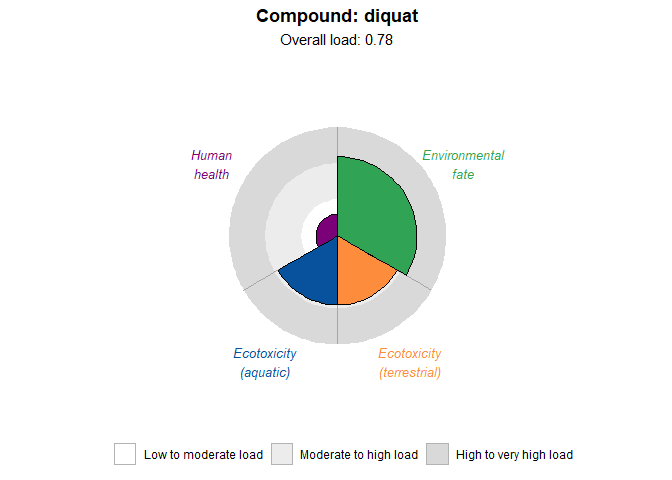
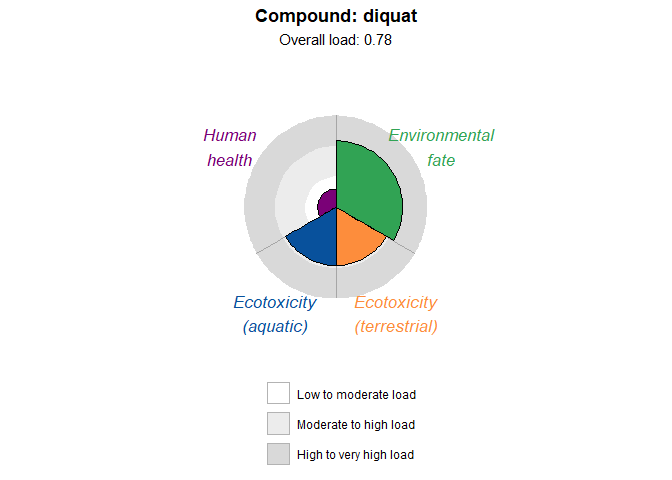
fix label repelling

diff --git a/README.md b/README.md
@@ -40,11 +40,9 @@ We can compare it to the Bordeaux mixture, which is used to control
 fungal and bacterial diseases:
 
 ``` r
-adopt_Make_Paired_Rose_Plots(
-  compound_name1 = "diquat",
-  compound_name2 = "Bordeaux mixture",
+adopt_Make_Distribution_Plot(
+  compound_names = c("diquat", "Bordeaux mixture"),
   data = adopt_hpli)
-#> Joining with `by = join_by(compound)`
 ```
 
 <img src="man/figures/README-unnamed-chunk-2-1.png" width="100%" />
